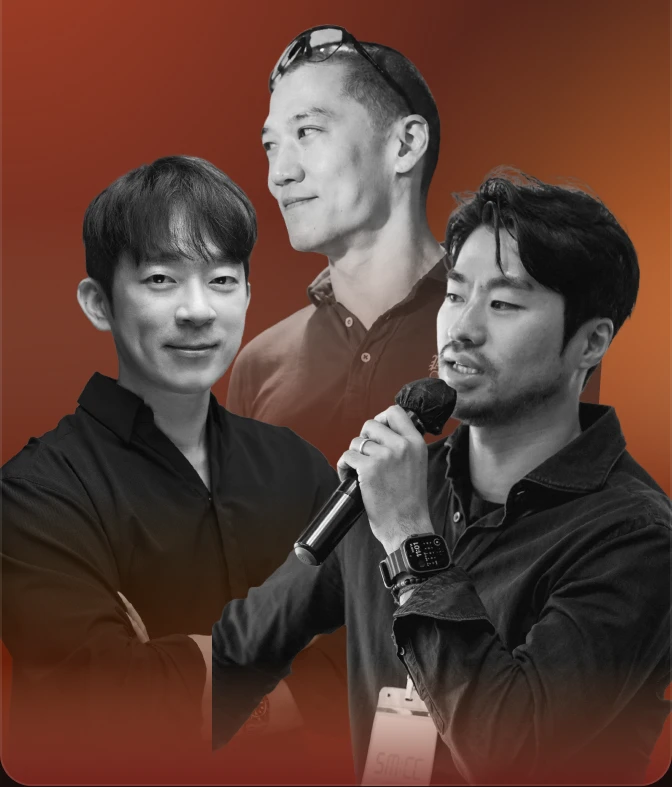
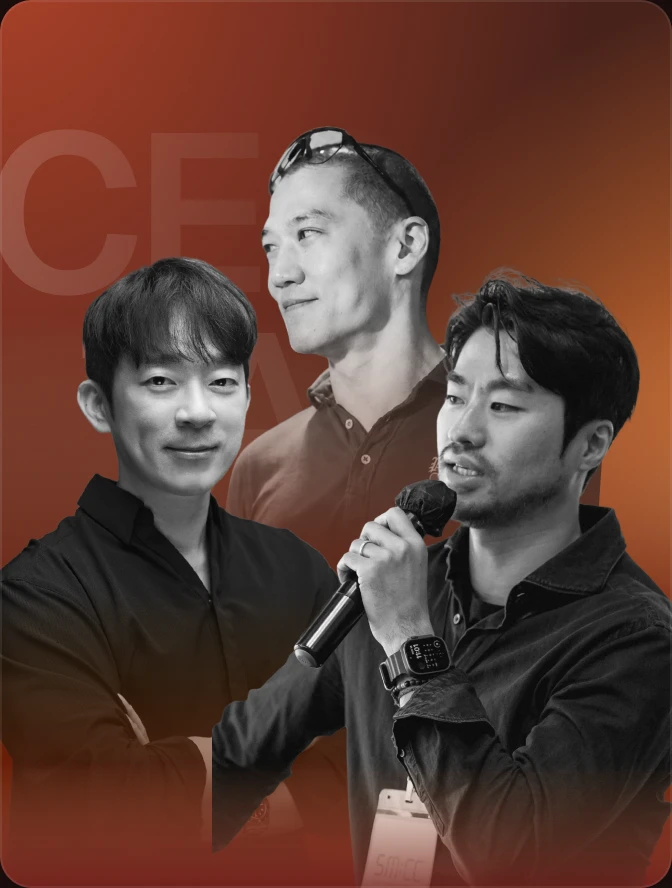
라인업: CEO 세션 카드 상단 잘림 수정(피그마 카드 전체 배경으로 교체)
Claude-Session: https://claude.ai/code/session_01R7psaqm8m7GEAGGww3SgQz

diff --git a/index.html b/index.html
@@ -938,7 +938,7 @@ try{ if('scrollRestoration' in history) history.scrollRestoration='manual'; }cat
     ['oh','오진승','정신건강의학과 전문의','MENTAL WELLNESS','11.22 SUN','W',[2.06,16.90,98.81]],
     ['nakjun_lu','이낙준','작가 · 이비인후과 전문의','LONGEVITY HISTORY','11.22 SUN','O',[-18.75,2.93,139.88]],
     ['hong_lu','홍정기','교수 · 데이스쿼트','EXERCISE SNACKING','11.20 FRI','B',[-4.17,14.86,117.86]],
-    ['ceo_lu','김록 · 찰리 · 박재현','1,000 CAL CLUB · 롱진 · SMCC','CEO SESSION','11.20 FRI','O',[0,11.486,100]],
+    ['ceo_lu','김록 · 찰리 · 박재현','1,000 CAL CLUB · 롱진 · SMCC','CEO SESSION','11.20 FRI','O',[0,0,100]],
     ['noh','노경한 · 유현주','정형외과 전문의 · 프로골프선수','MOVEMENT','11.22 SUN','B',[-12.2,25.9,82.14],0,['yoohj_lu',23.81,20.95,89.88]],
     ['byun','변상균','연세대 생명공학과 교수','LONGEVITY SCIENCE','11.20 FRI','O',[-10.36,17.61,108.93],1],
     ['lee','이주희','피부과 전문의','SKIN LONGEVITY','11.21 SAT','W',[-5.65,18.92,96.43],1],
@@ -950,7 +950,7 @@ try{ if('scrollRestoration' in history) history.scrollRestoration='manual'; }cat
   const cardHTML=(r,clone)=>{ const ti=clone?' tabindex="-1" aria-hidden="true"':'';
     if(r[0]==='soon') return `<a class="l-card soon" href="${BOOKL}" target="_blank" rel="noopener"${ti}><div class="l-top"><span>LINEUP</span><b>COMING SOON</b></div><div class="soon-mid"><svg viewBox="0 0 24 24" width="44" height="44" aria-hidden="true"><path d="M12 1.5C12.7 7.4 16.6 11.3 22.5 12C16.6 12.7 12.7 16.6 12 22.5C11.3 16.6 7.4 12.7 1.5 12C7.4 11.3 11.3 7.4 12 1.5Z" fill="#fff"/></svg><h3>더 많은 연사가<br>곧 공개됩니다</h3></div><div class="l-bottom"><span class="l-book">롱진콘 신청하기 ↗</span></div></a>`;
     const [f,n,d,c,dt,t,[x,y,w]]=r;
-    return `<a class="l-card ${t}${r[8]?' duo':''}" href="${BOOKL}" target="_blank" rel="noopener"${ti}><div class="l-type" aria-hidden="true"><span>${WORD[f][0]}</span><span>${WORD[f][1]}</span></div>${r[8]?`<img src="img/${r[8][0]}.webp?v=3" alt="" loading="lazy" style="left:${r[8][1]}%;top:${r[8][2]}%;width:${r[8][3]}%;filter:none">`:''}<img src="img/${f}.webp${f==='ceo_lu'?'?v=2':''}" alt="${clone?'':n}" loading="lazy" style="left:${x}%;top:${y}%;width:${w}%${f==='ceo_lu'?';filter:none':''}">${r[8]?'<div style="position:absolute;left:-5.95%;top:66.89%;width:108.33%;height:36.71%;background:linear-gradient(rgba(14,46,90,0),#0E2E5A);pointer-events:none"></div>':''}<div class="scrim"></div><div class="l-top"><span>${c}</span><b>${dt}</b></div><div class="l-bottom"><h3>${n}</h3><p>${d}</p><span class="l-book">예매하기 ↗</span></div></a>`; };
+    return `<a class="l-card ${t}${r[8]?' duo':''}" href="${BOOKL}" target="_blank" rel="noopener"${ti}><div class="l-type" aria-hidden="true"><span>${WORD[f][0]}</span><span>${WORD[f][1]}</span></div>${r[8]?`<img src="img/${r[8][0]}.webp?v=3" alt="" loading="lazy" style="left:${r[8][1]}%;top:${r[8][2]}%;width:${r[8][3]}%;filter:none">`:''}<img src="img/${f}.webp${f==='ceo_lu'?'?v=3':''}" alt="${clone?'':n}" loading="lazy" style="left:${x}%;top:${y}%;width:${w}%${f==='ceo_lu'?';filter:none':''}">${r[8]?'<div style="position:absolute;left:-5.95%;top:66.89%;width:108.33%;height:36.71%;background:linear-gradient(rgba(14,46,90,0),#0E2E5A);pointer-events:none"></div>':''}<div class="scrim"></div><div class="l-top"><span>${c}</span><b>${dt}</b></div><div class="l-bottom"><h3>${n}</h3><p>${d}</p><span class="l-book">예매하기 ↗</span></div></a>`; };
   // 무한 루프: 같은 카드 세트를 앞·뒤로 한 벌씩 더 붙이고, 가운데 세트를 벗어나면 같은 위치의 가운데 카드로 몰래 점프
   rail.innerHTML=LV.map(c=>cardHTML(c,1)).join('')+LV.map(c=>cardHTML(c,0)).join('')+LV.map(c=>cardHTML(c,1)).join('');
   const cards=()=>rail.querySelectorAll('.l-card');
